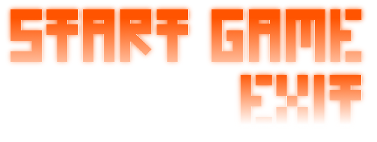
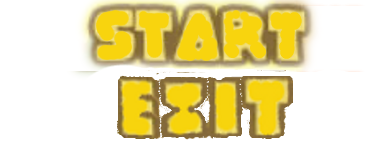
New Menu. Walking upgraded (change sides).

diff --git a/src/prehistoricreactivation/GameplayState.java b/src/prehistoricreactivation/GameplayState.java
@@ -18,50 +18,48 @@ import org.newdawn.slick.state.StateBasedGame;
  *
  * @author slawek
  */
-public class GameplayState extends BasicGameState{
-    
-    private float playerX=240;
-	private float playerY=500;
-	private Animation player;
+public class GameplayState extends BasicGameState {
+
+    private float playerX = 240;
+    private float playerY = 530;
+    private Animation player;
     private Polygon playerPoly;
-	public BlockMap map;
-        private float jump_speed;
-   private boolean jumping;
-    
+    public BlockMap map;
+    private float jump_speed;
+    private boolean jumping;
     private int stateId = 0;
-    
+
     private enum STATES {
+
         START_GAME_STATE, PAUSE_GAME_STATE, HIGHSCORE_STATE, GAME_OVER_STATE
     }
- 
     private STATES currentState = null;
-    
-    public GameplayState(int stateId)
-    {
+
+    public GameplayState(int stateId) {
         this.stateId = stateId;
     }
- 
+
     @Override
     public int getID() {
         return stateId;
     }
- 
+
     @Override
-    public void init(GameContainer container, StateBasedGame sb) throws SlickException{
-        container.setVSync(true);
-		SpriteSheet sheet = new SpriteSheet("data/pic/chlop.png", 32, 64);
-		map = new BlockMap("data/map/map2.tmx");
-		player = new Animation();
-		player.setAutoUpdate(false);
-        for (int frame=0;frame<1;frame++) {
-			player.addFrame(sheet.getSprite(frame,0), 150);
-		}
-		playerPoly = new Polygon(new float[]{
-				playerX,playerY,
-				playerX+32,playerY,
-				playerX+32,playerY+64,
-				playerX,playerY+64
-		});
+    public void init(GameContainer container, StateBasedGame sb) throws SlickException {
+        container.setVSync(true);        
+        SpriteSheet sheet = new SpriteSheet("data/pic/chlopTest.png", 32, 64);
+        map = new BlockMap("data/map/map2.tmx");
+        player = new Animation();
+        player.setAutoUpdate(false);
+        for (int frame = 0; frame < 2; frame++) {
+            player.addFrame(sheet.getSprite(frame, 0), 150);
+        }
+        playerPoly = new Polygon(new float[]{
+                    playerX, playerY,
+                    playerX + 32, playerY,
+                    playerX + 32, playerY + 64,
+                    playerX, playerY + 64
+                });
     }
     
     @Override
@@ -72,89 +70,93 @@ public class GameplayState extends BasicGameState{
         //g.draw(playerPoly);
         //testline
     }
-    
+
     @Override
-    public void update(GameContainer container, StateBasedGame sb, int delta) throws SlickException{
-        switch(currentState)
-        {
+    public void update(GameContainer container, StateBasedGame sb, int delta) throws SlickException {
+        switch (currentState) {
             case START_GAME_STATE:
-                getUserInput(container,sb);
+                getUserInput(container, sb);
                 break;
-           
             case HIGHSCORE_STATE:
                 break;
             case PAUSE_GAME_STATE:
                 break;
             case GAME_OVER_STATE:
- 
                 //Highscores.getInstance().addScore(score);
- 
                 sb.enterState(PrehistoricReactivation.MAINMENUSTATE);
                 break;
         }
     }
-    
+
     @Override
-    public void enter(GameContainer gc, StateBasedGame sb) throws SlickException
-    {
-        super.enter(gc, sb);        
-        
+    public void enter(GameContainer gc, StateBasedGame sb) throws SlickException {
+        super.enter(gc, sb);
+
         currentState = STATES.START_GAME_STATE;
     }
-    
-     public void getUserInput(GameContainer container, StateBasedGame sb) throws SlickException {
-        if (container.getInput().isKeyDown(Input.KEY_LEFT)) {
-			playerX-=2;
-			playerPoly.setX(playerX);
-			if (entityCollisionWith()){
-				playerX+=2;
-                                playerPoly.setX(playerX);
-			}
-		}
-		if (container.getInput().isKeyDown(Input.KEY_RIGHT)) {
- 
-			playerX+=2;
-			playerPoly.setX(playerX);
-			if (entityCollisionWith()){
-				playerX-=2;
-				playerPoly.setX(playerX);
-			}
-		}
-               
-                if (container.getInput().isKeyPressed(Input.KEY_UP)) {
-                    this.jump_speed = -12;
-                    this.jumping = true;
-                }
 
-                if(this.jumping && this.jump_speed < 11) {
-                    this.jump_speed += 1;
-                    playerY = playerY + jump_speed;
-                    } else {
-                    this.jumping = false;
-                    }
-                
-                //playerY = playerY + jump_speed;
-                
-		if (container.getInput().isKeyDown(Input.KEY_DOWN)) {
-			playerY+=2;
-			playerPoly.setY(playerY);
-			if (entityCollisionWith()){
-				playerY-=2;                
-                                playerPoly.setY(playerY);
-			}
-		}
-        if (container.getInput().isKeyDown(Input.KEY_ESCAPE)){
+    public void getUserInput(GameContainer container, StateBasedGame sb) throws SlickException {
+        if (container.getInput().isKeyDown(Input.KEY_LEFT)) {
+            player.setCurrentFrame(1);
+            playerX -= 2;
+            playerPoly.setX(playerX);
+            if (entityCollisionWith()) {
+                playerX += 2;
+                playerPoly.setX(playerX);
+            }
+        }
+        if (container.getInput().isKeyDown(Input.KEY_RIGHT)) {
+            player.setCurrentFrame(0);
+            playerX += 2;
+            playerPoly.setX(playerX);
+            if (entityCollisionWith()) {
+                playerX -= 2;
+                playerPoly.setX(playerX);
+            }
+        }
+
+        if (container.getInput().isKeyPressed(Input.KEY_UP)) {
+            if (jumping == false) {
+                jump_speed = -15;
+                jumping = true;
+            }
+        }
+
+        if (jumping && jump_speed < 14) {
+            jump_speed += 1;
+            playerY = playerY + jump_speed;
+            playerPoly.setY(playerY);
+            while (entityCollisionWith()) {
+                playerY -= 1;
+                playerPoly.setY(playerY);
+            }
+        } else {
+            jumping = false;
+        }
+
+        //playerY = playerY + jump_speed;
+
+        if (!container.getInput().isKeyDown(Input.KEY_DOWN)
+                || container.getInput().isKeyDown(Input.KEY_DOWN)) {
+            playerY += 3;
+            playerPoly.setY(playerY);
+            if (entityCollisionWith()) {
+                playerY -= 3;
+                playerPoly.setY(playerY);
+            }
+        }
+        if (container.getInput().isKeyDown(Input.KEY_ESCAPE)) {
             sb.enterState(PrehistoricReactivation.MAINMENUSTATE);
         }
     }
-     
-      public boolean entityCollisionWith() throws SlickException {
-		for (int i = 0; i < BlockMap.entities.size(); i++) {
-			Block entity1 = (Block) BlockMap.entities.get(i);
-			if (playerPoly.intersects(entity1.poly)) {
-				return true;
-			}       
-		}       
-		return false;
-	}
+
+    public boolean entityCollisionWith() throws SlickException {
+        for (int i = 0; i < BlockMap.entities.size(); i++) {
+            Block entity1 = (Block) BlockMap.entities.get(i);
+            if (playerPoly.intersects(entity1.poly)) {
+                return true;
+            }
+        }
+        return false;
+    }
 }

diff --git a/src/prehistoricreactivation/MainMenuState.java b/src/prehistoricreactivation/MainMenuState.java
@@ -22,8 +22,8 @@ public class MainMenuState extends BasicGameState{
  
     Highscores highscores = null;
  
-    private static int menuX = 410;
-    private static int menuY = 160;
+    private static int menuX = 200;
+    private static int menuY = 260;
  
     float startGameScale = 1;
     float exitScale = 1;
@@ -90,6 +90,7 @@ public class MainMenuState extends BasicGameState{
     
     float scaleStep = 0.0001f;
  
+    @Override
     public void update(GameContainer gc, StateBasedGame sb, int delta) throws SlickException{
         Input input = gc.getInput();
  

diff --git a/src/prehistoricreactivation/PrehistoricReactivation.java b/src/prehistoricreactivation/PrehistoricReactivation.java
@@ -32,7 +32,9 @@ public class PrehistoricReactivation extends StateBasedGame{
     
     public static void main(String[] argv) throws SlickException {
             AppGameContainer container = 
-                    new AppGameContainer(new PrehistoricReactivation(), 800, 600, false);
+                    //new AppGameContainer(new PrehistoricReactivation(), 800, 600, false);
+                    new AppGameContainer(new PrehistoricReactivation(), 1366, 768, true);
+
             
             container.start();
     }
